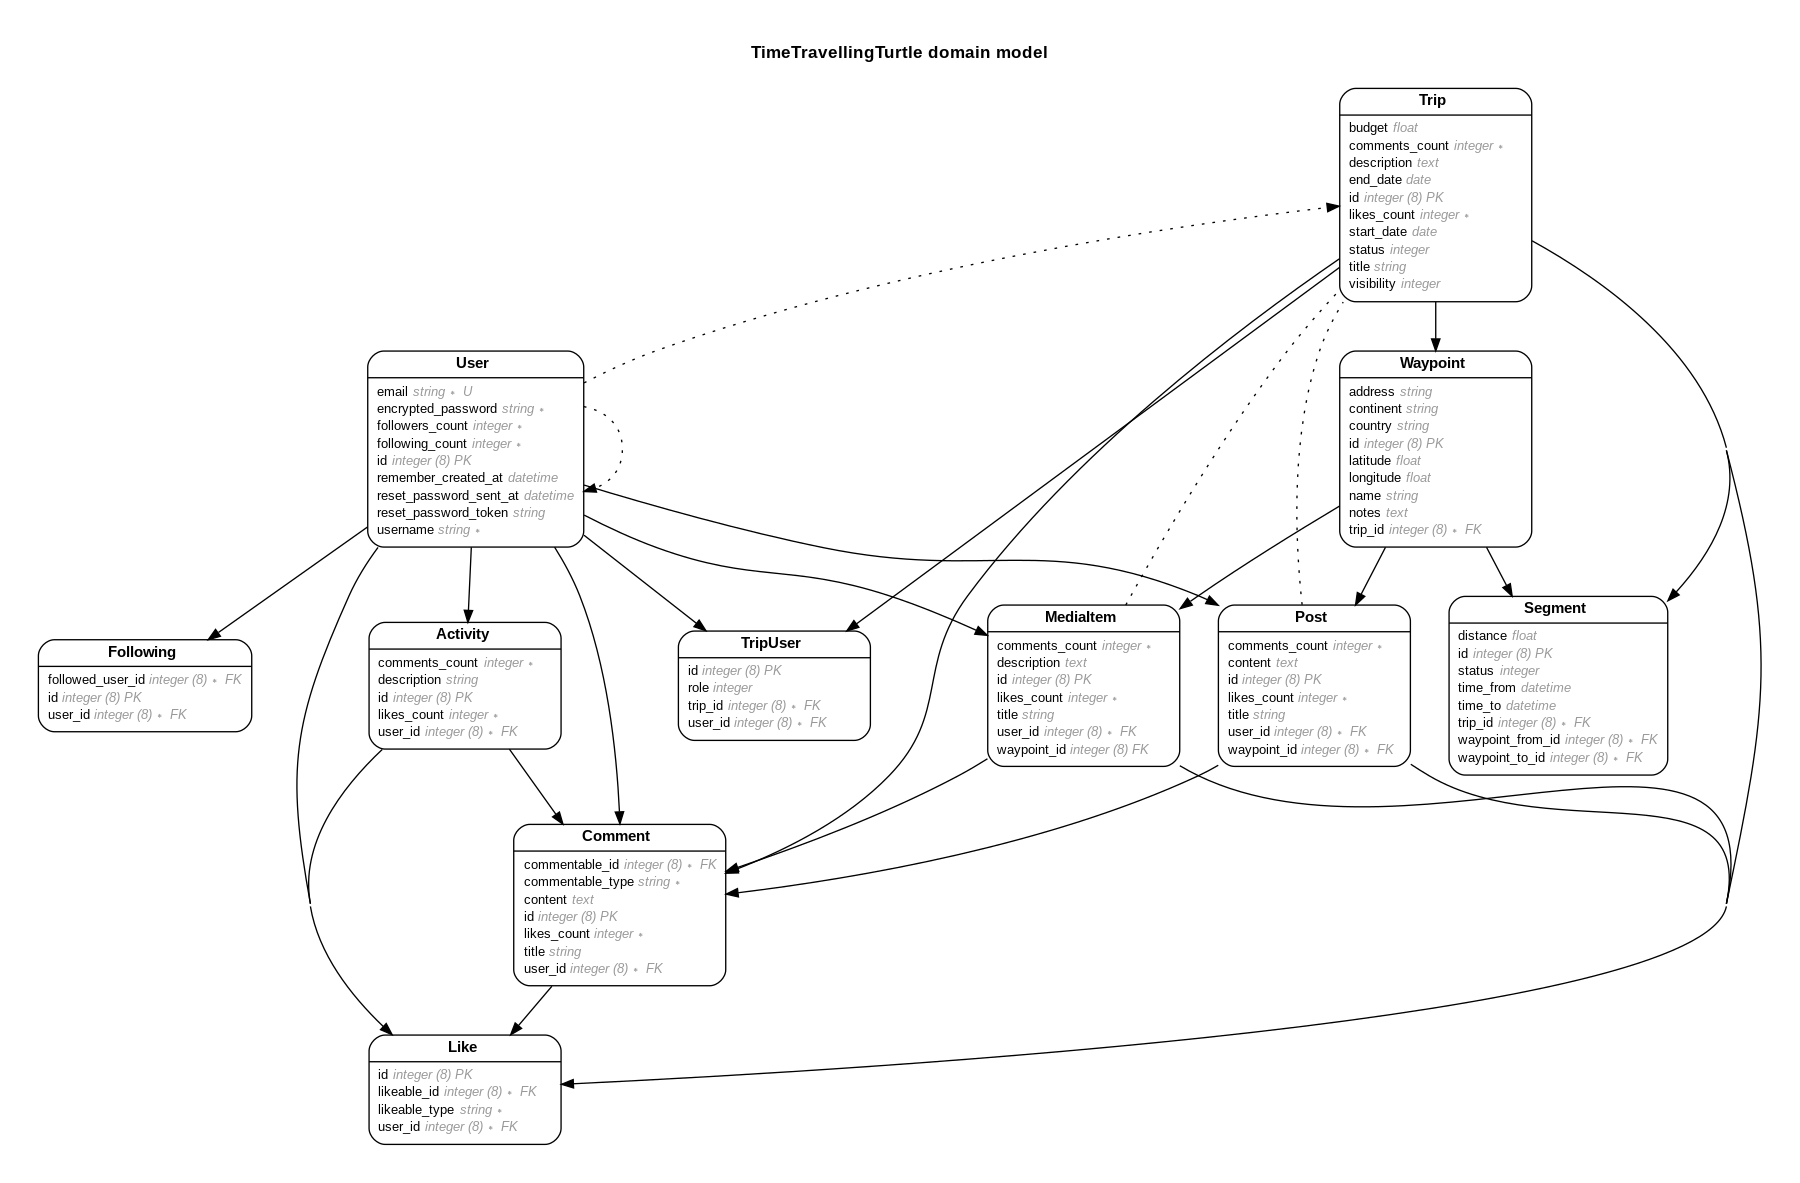
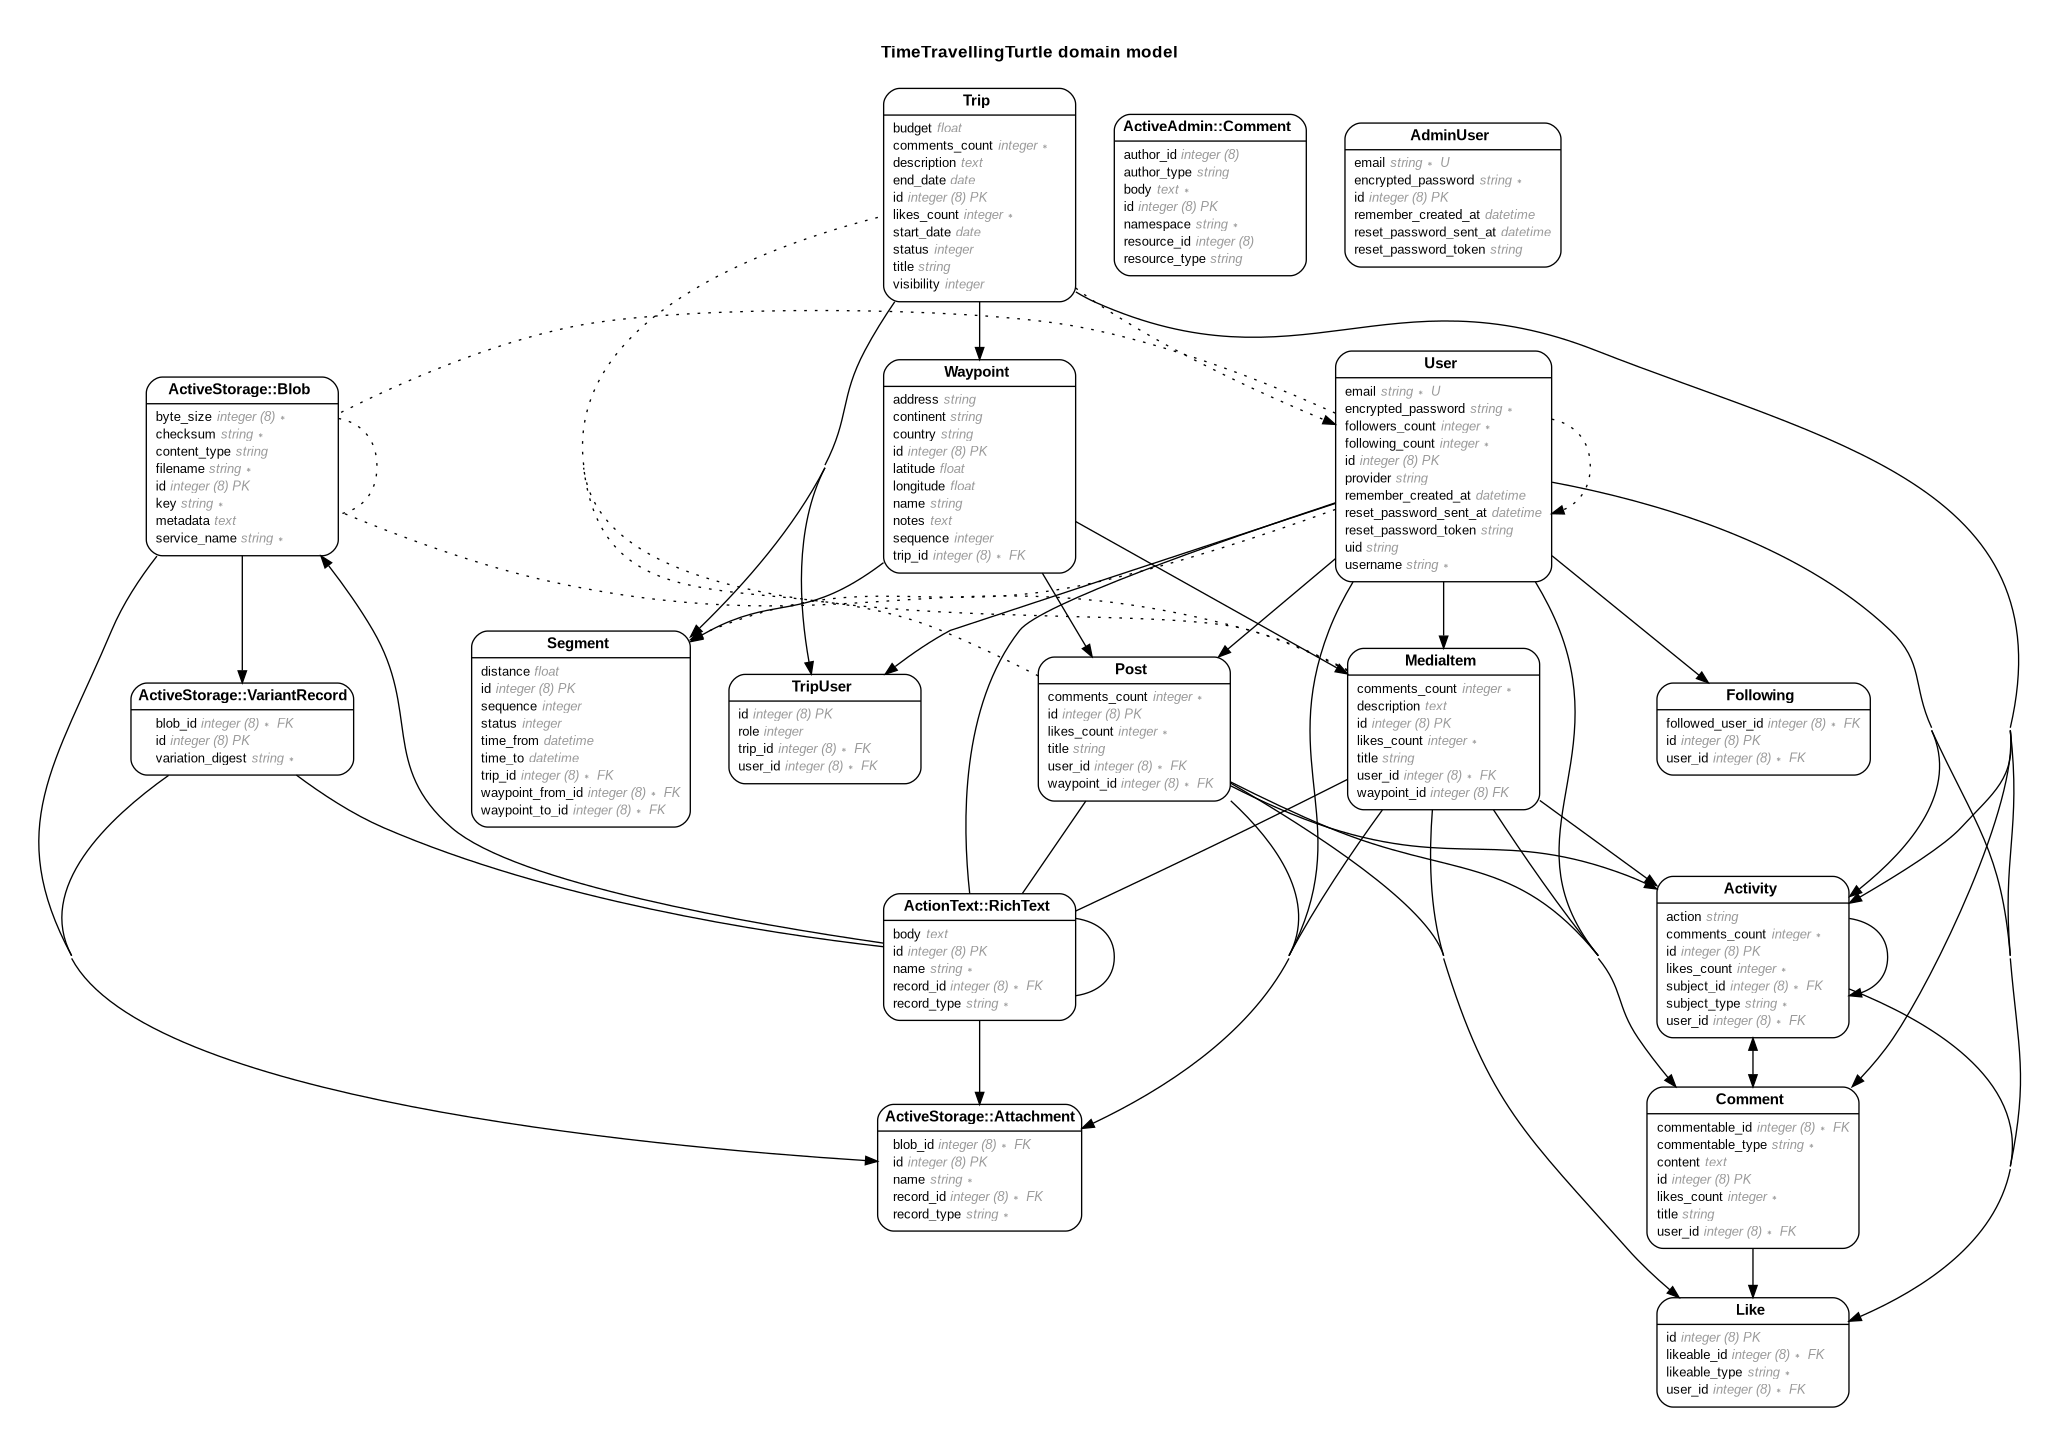
Doc: updated ER diagrams

diff --git a/README.md b/README.md
@@ -38,4 +38,8 @@ rails: 6.1.3.1
 
 ## ERD
 ![ERD model](doc/erd.png)
-Nota: también está disponible cómo PDF en docs/erd.pdf
+Nota: también está disponible cómo PDF en docs/erd.pdf \
+Se lo generó usando la gema `rails-erd` usando el comando
+```bash
+rails erd indirect=true attributes=foreign_keys,primary_keys,content filetype=pdf filename=doc/erd
+```
